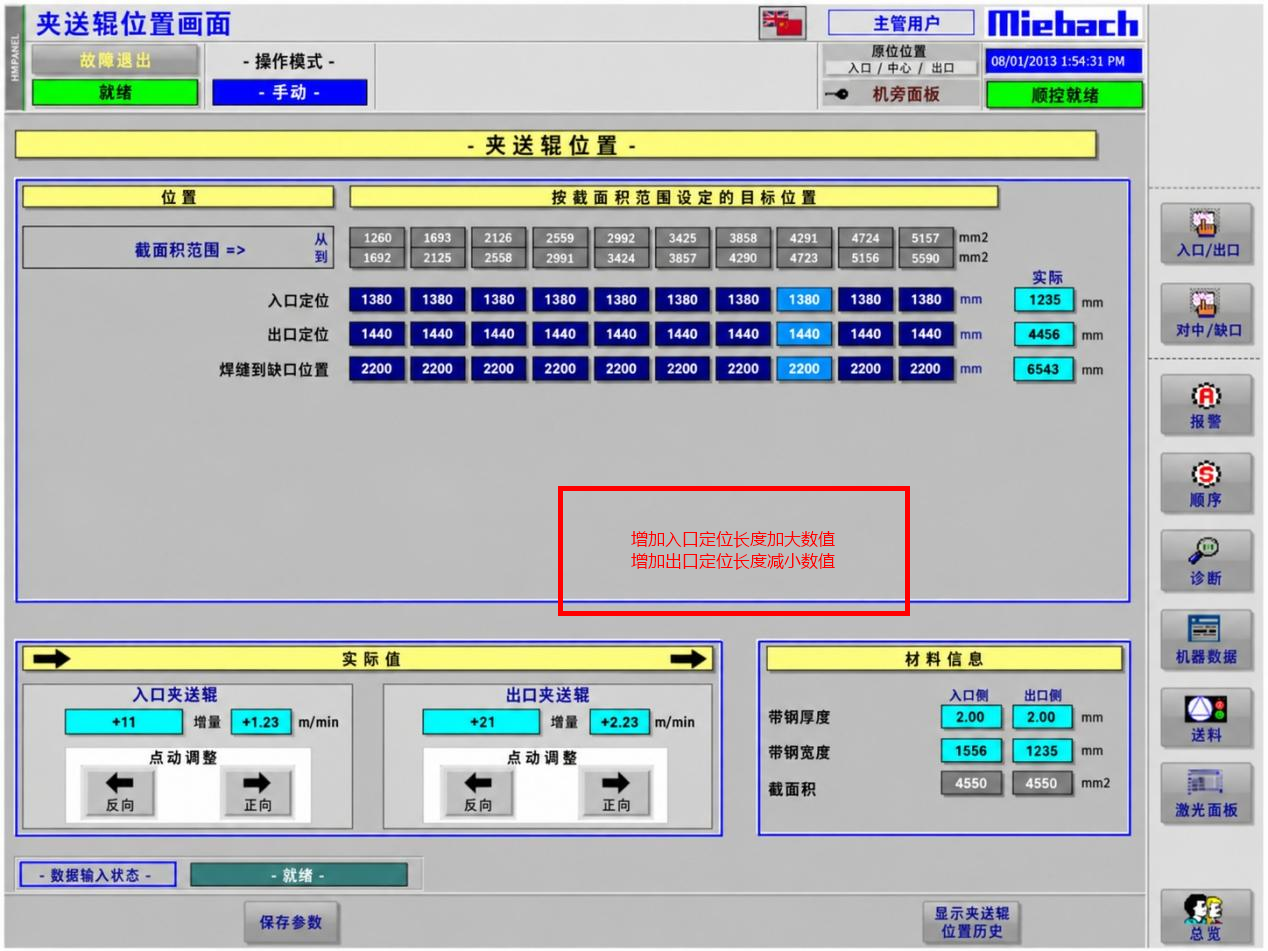
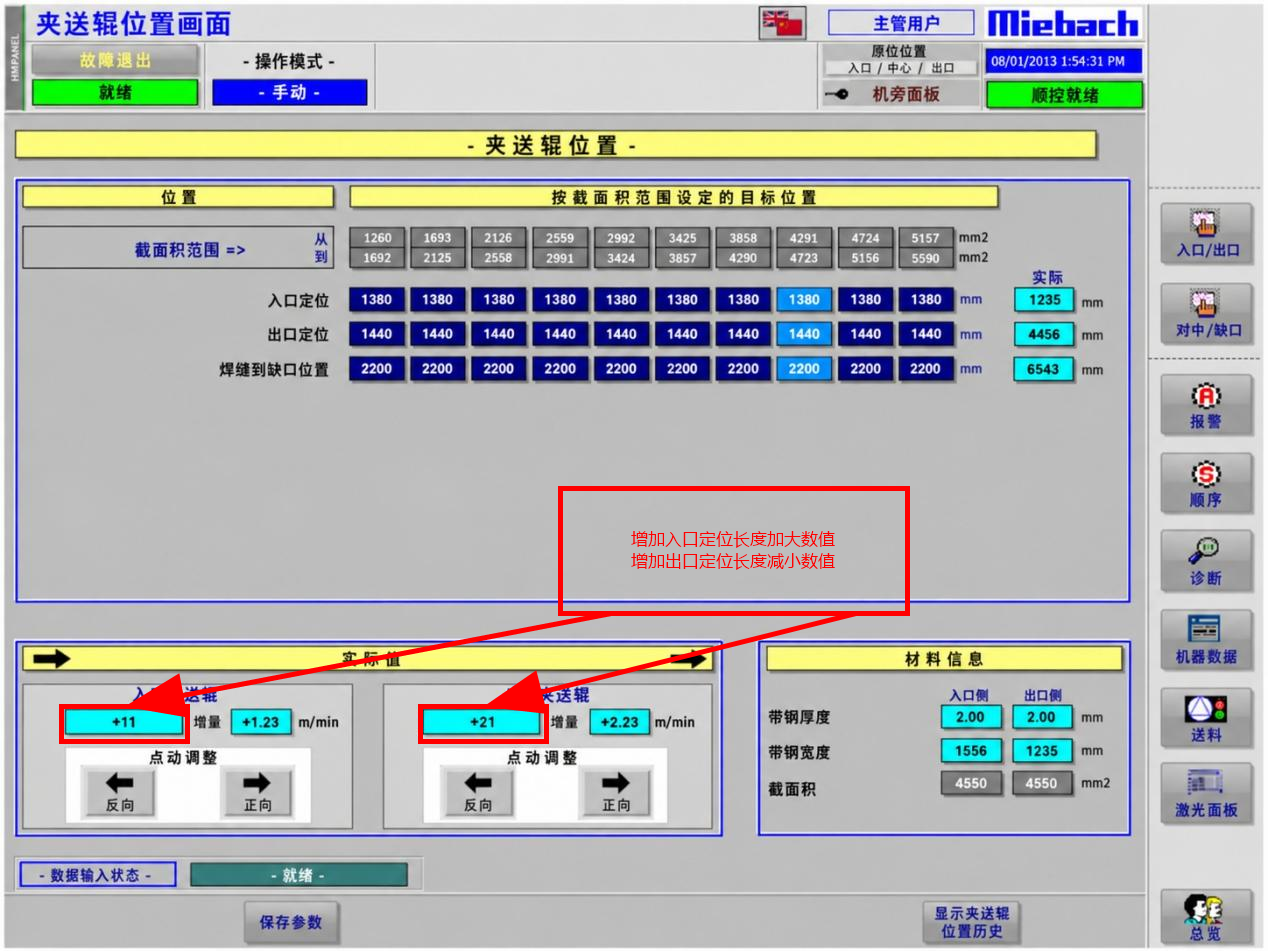
Point feed roll guide to adjustment fields

diff --git a/service-worker.js b/service-worker.js
@@ -2,7 +2,7 @@
  * 操作工快速指导：GitHub Pages 子目录安全的离线缓存。
  * 日常发布只需改 index.html 内容，并将 APP_VERSION 递增后一起发布。
  */
-const APP_VERSION = "1.0.8";
+const APP_VERSION = "1.0.9";
 const CACHE_PREFIX = "operator-guide-";
 const CACHE_NAME = CACHE_PREFIX + APP_VERSION;
 const APP_ROOT = new URL("./", self.location.href);
